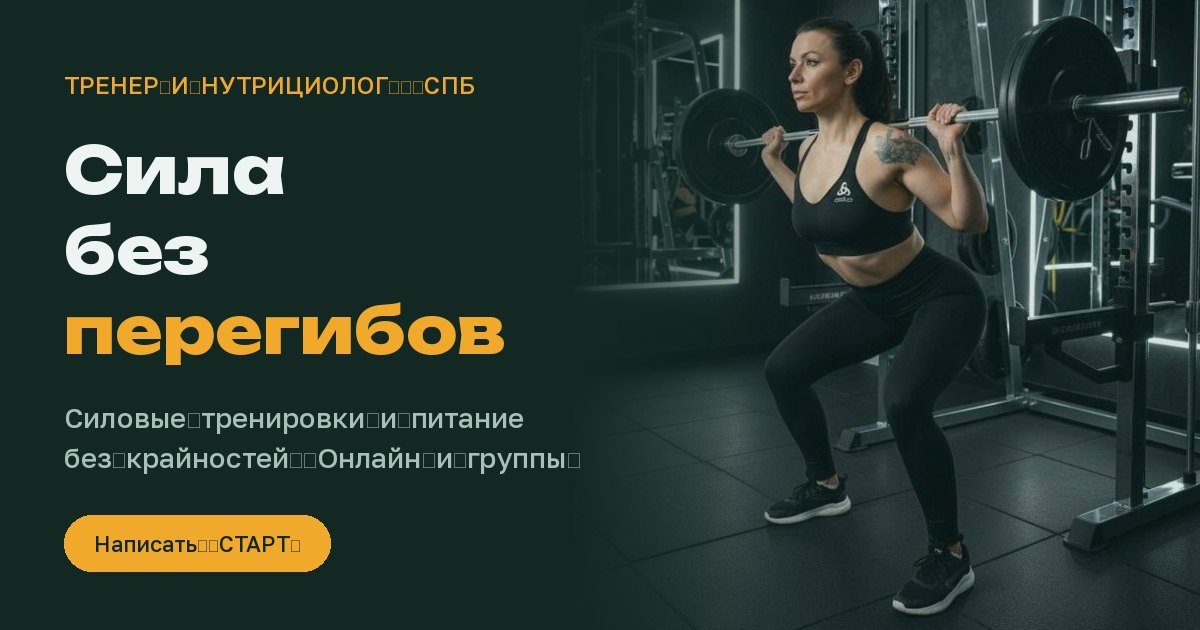
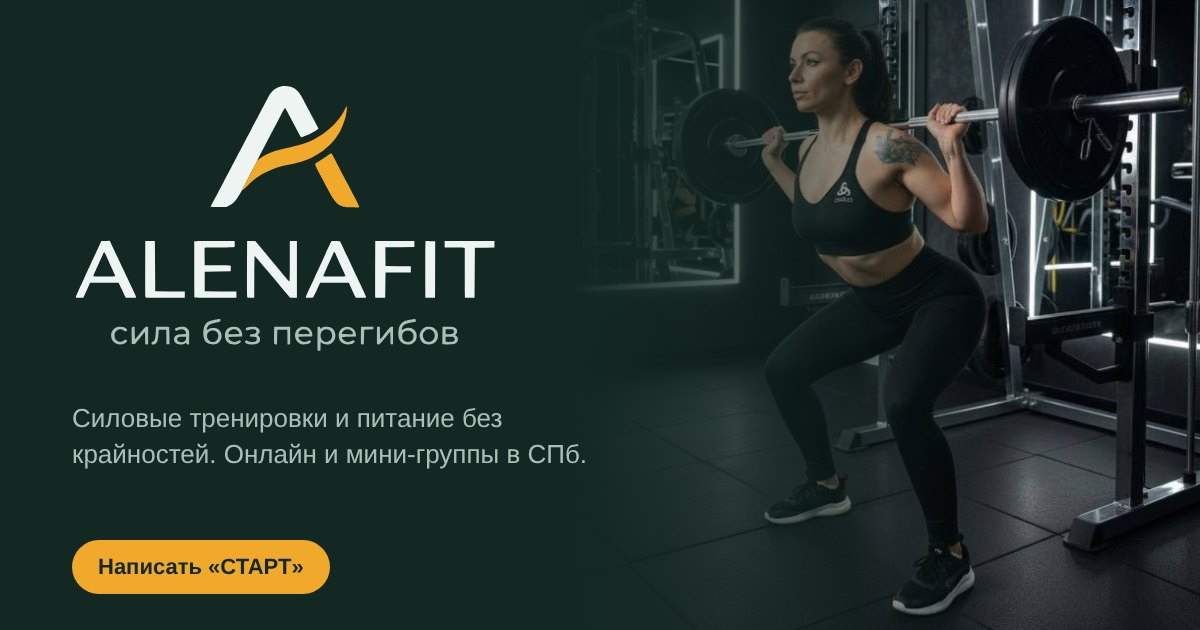
Логотип ALENAFIT: вектор, шапка, подвал, иконка, превью ссылки
Claude-Session: https://claude.ai/code/session_01HTtxCiXQ57RHCX37yzFsfp

diff --git a/index.html b/index.html
@@ -29,7 +29,7 @@
 
 <header class="bar g">
   <div class="w">
-    <a class="brand" href="./"><span class="mono" aria-hidden="true">АВ</span><span><b>Сила без перегибов</b><small>Алёна · тренер и нутрициолог</small></span></a>
+    <a class="brand" href="./" aria-label="ALENAFIT — на главную"><img class="brand-mark" src="img/brand/mark-light.svg" alt="" width="41" height="34"><span class="brand-text"><img class="brand-word" src="img/brand/wordmark-light.svg" alt="ALENAFIT" width="108" height="15"><small>сила без перегибов</small></span></a>
     <nav class="nav" aria-label="Разделы">
       <a href="./#plans">Цены</a><a href="nauka.html">Наука</a><a href="testy.html">Тесты</a><a href="servisy.html">Полезное</a><a href="novosti.html">Новости</a><a href="progress.html">Прогресс</a>
     </nav>
@@ -83,6 +83,7 @@
 
   <section class="manifest g" id="manifest">
     <div class="w">
+      <img class="m-watermark" src="img/brand/mark-light.svg" alt="" width="444" height="366" loading="lazy">
       <p class="m-big"><span>Не фитнес.</span> <span>Не спорт.</span> <em>Сила для жизни.</em></p>
       <p class="m-sub">Не ради медалей и не ради фото. Ради обычной жизни: поднять ребёнка или чемодан, донести пакеты, выдержать рабочую неделю — и не сорвать спину.</p>
     </div>
@@ -403,7 +404,7 @@
   </section>
 </main>
 
-<footer class="g"><div class="w"><span>Алёна · тренер и нутрициолог · Санкт-Петербург</span><span>Самозанятая. Не является медицинской услугой.</span><span class="foot-links"><a href="https://t.me/alena_gymmom" target="_blank" rel="noopener">Канал в Telegram</a> · <a href="https://t.me/Gym_mom1988" target="_blank" rel="noopener">Написать Алёне</a></span></div></footer>
+<footer class="g"><div class="w"><img class="foot-logo" src="img/brand/logo-light.svg" alt="ALENAFIT — сила без перегибов" width="150" height="96" loading="lazy"><span>Алёна · тренер и нутрициолог · Санкт-Петербург</span><span>Самозанятая. Не является медицинской услугой.</span><span class="foot-links"><a href="https://t.me/alena_gymmom" target="_blank" rel="noopener">Канал в Telegram</a> · <a href="https://t.me/Gym_mom1988" target="_blank" rel="noopener">Написать Алёне</a></span></div></footer>
 
 <div class="dock hide" id="dock">
   <div class="w">

diff --git a/kalorii.html b/kalorii.html
@@ -26,7 +26,7 @@
 <body>
 <header class="bar g">
   <div class="w">
-    <a class="brand" href="./"><span class="mono" aria-hidden="true">АВ</span><span><b>Сила без перегибов</b><small>Алёна · тренер и нутрициолог</small></span></a>
+    <a class="brand" href="./" aria-label="ALENAFIT — на главную"><img class="brand-mark" src="img/brand/mark-light.svg" alt="" width="41" height="34"><span class="brand-text"><img class="brand-word" src="img/brand/wordmark-light.svg" alt="ALENAFIT" width="108" height="15"><small>сила без перегибов</small></span></a>
     <nav class="nav" aria-label="Разделы">
       <a href="./#plans">Цены</a><a href="nauka.html">Наука</a><a href="testy.html">Тесты</a><a href="servisy.html">Полезное</a><a href="novosti.html">Новости</a><a href="progress.html">Прогресс</a>
     </nav>
@@ -153,7 +153,7 @@
     </div>
   </section>
 </main>
-<footer class="g"><div class="w"><span>Алёна · тренер и нутрициолог · Санкт-Петербург</span><span>Самозанятая. Не является медицинской услугой.</span><span class="foot-links"><a href="https://t.me/alena_gymmom" target="_blank" rel="noopener">Канал в Telegram</a> · <a href="https://t.me/Gym_mom1988" target="_blank" rel="noopener">Написать Алёне</a></span></div></footer>
+<footer class="g"><div class="w"><img class="foot-logo" src="img/brand/logo-light.svg" alt="ALENAFIT — сила без перегибов" width="150" height="96" loading="lazy"><span>Алёна · тренер и нутрициолог · Санкт-Петербург</span><span>Самозанятая. Не является медицинской услугой.</span><span class="foot-links"><a href="https://t.me/alena_gymmom" target="_blank" rel="noopener">Канал в Telegram</a> · <a href="https://t.me/Gym_mom1988" target="_blank" rel="noopener">Написать Алёне</a></span></div></footer>
 <script src="js/food-db.js" defer></script>
 <script src="js/food.js" defer></script>
 <script src="js/nav.js" defer></script>

diff --git a/progress.html b/progress.html
@@ -26,7 +26,7 @@
 <body>
 <header class="bar g">
   <div class="w">
-    <a class="brand" href="./"><span class="mono" aria-hidden="true">АВ</span><span><b>Сила без перегибов</b><small>Алёна · тренер и нутрициолог</small></span></a>
+    <a class="brand" href="./" aria-label="ALENAFIT — на главную"><img class="brand-mark" src="img/brand/mark-light.svg" alt="" width="41" height="34"><span class="brand-text"><img class="brand-word" src="img/brand/wordmark-light.svg" alt="ALENAFIT" width="108" height="15"><small>сила без перегибов</small></span></a>
     <nav class="nav" aria-label="Разделы">
       <a href="./#plans">Цены</a><a href="nauka.html">Наука</a><a href="testy.html">Тесты</a><a href="servisy.html">Полезное</a><a href="novosti.html">Новости</a><a href="progress.html">Прогресс</a>
     </nav>
@@ -181,7 +181,7 @@
     </div>
   </section>
 </main>
-<footer class="g"><div class="w"><span>Алёна · тренер и нутрициолог · Санкт-Петербург</span><span>Самозанятая. Не является медицинской услугой.</span><span class="foot-links"><a href="https://t.me/alena_gymmom" target="_blank" rel="noopener">Канал в Telegram</a> · <a href="https://t.me/Gym_mom1988" target="_blank" rel="noopener">Написать Алёне</a></span></div></footer>
+<footer class="g"><div class="w"><img class="foot-logo" src="img/brand/logo-light.svg" alt="ALENAFIT — сила без перегибов" width="150" height="96" loading="lazy"><span>Алёна · тренер и нутрициолог · Санкт-Петербург</span><span>Самозанятая. Не является медицинской услугой.</span><span class="foot-links"><a href="https://t.me/alena_gymmom" target="_blank" rel="noopener">Канал в Telegram</a> · <a href="https://t.me/Gym_mom1988" target="_blank" rel="noopener">Написать Алёне</a></span></div></footer>
 <script src="js/progress.js" defer></script>
 <script src="js/nav.js" defer></script>
 </body>

diff --git a/novosti.html b/novosti.html
@@ -26,7 +26,7 @@
 <body>
 <header class="bar g">
   <div class="w">
-    <a class="brand" href="./"><span class="mono" aria-hidden="true">АВ</span><span><b>Сила без перегибов</b><small>Алёна · тренер и нутрициолог</small></span></a>
+    <a class="brand" href="./" aria-label="ALENAFIT — на главную"><img class="brand-mark" src="img/brand/mark-light.svg" alt="" width="41" height="34"><span class="brand-text"><img class="brand-word" src="img/brand/wordmark-light.svg" alt="ALENAFIT" width="108" height="15"><small>сила без перегибов</small></span></a>
     <nav class="nav" aria-label="Разделы">
       <a href="./#plans">Цены</a><a href="nauka.html">Наука</a><a href="testy.html">Тесты</a><a href="servisy.html">Полезное</a><a href="novosti.html">Новости</a><a href="progress.html">Прогресс</a>
     </nav>
@@ -89,7 +89,7 @@
     </div>
   </section>
 </main>
-<footer class="g"><div class="w"><span>Алёна · тренер и нутрициолог · Санкт-Петербург</span><span>Самозанятая. Не является медицинской услугой.</span><span class="foot-links"><a href="https://t.me/alena_gymmom" target="_blank" rel="noopener">Канал в Telegram</a> · <a href="https://t.me/Gym_mom1988" target="_blank" rel="noopener">Написать Алёне</a></span></div></footer>
+<footer class="g"><div class="w"><img class="foot-logo" src="img/brand/logo-light.svg" alt="ALENAFIT — сила без перегибов" width="150" height="96" loading="lazy"><span>Алёна · тренер и нутрициолог · Санкт-Петербург</span><span>Самозанятая. Не является медицинской услугой.</span><span class="foot-links"><a href="https://t.me/alena_gymmom" target="_blank" rel="noopener">Канал в Telegram</a> · <a href="https://t.me/Gym_mom1988" target="_blank" rel="noopener">Написать Алёне</a></span></div></footer>
 <script src="js/feeds.js" defer></script>
 <script src="js/nav.js" defer></script>
 </body>

diff --git a/servisy.html b/servisy.html
@@ -26,7 +26,7 @@
 <body>
 <header class="bar g">
   <div class="w">
-    <a class="brand" href="./"><span class="mono" aria-hidden="true">АВ</span><span><b>Сила без перегибов</b><small>Алёна · тренер и нутрициолог</small></span></a>
+    <a class="brand" href="./" aria-label="ALENAFIT — на главную"><img class="brand-mark" src="img/brand/mark-light.svg" alt="" width="41" height="34"><span class="brand-text"><img class="brand-word" src="img/brand/wordmark-light.svg" alt="ALENAFIT" width="108" height="15"><small>сила без перегибов</small></span></a>
     <nav class="nav" aria-label="Разделы">
       <a href="./#plans">Цены</a><a href="nauka.html">Наука</a><a href="testy.html">Тесты</a><a href="servisy.html">Полезное</a><a href="novosti.html">Новости</a><a href="progress.html">Прогресс</a>
     </nav>
@@ -204,7 +204,7 @@
     </div>
   </section>
 </main>
-<footer class="g"><div class="w"><span>Алёна · тренер и нутрициолог · Санкт-Петербург</span><span>Самозанятая. Не является медицинской услугой.</span><span class="foot-links"><a href="https://t.me/alena_gymmom" target="_blank" rel="noopener">Канал в Telegram</a> · <a href="https://t.me/Gym_mom1988" target="_blank" rel="noopener">Написать Алёне</a></span></div></footer>
+<footer class="g"><div class="w"><img class="foot-logo" src="img/brand/logo-light.svg" alt="ALENAFIT — сила без перегибов" width="150" height="96" loading="lazy"><span>Алёна · тренер и нутрициолог · Санкт-Петербург</span><span>Самозанятая. Не является медицинской услугой.</span><span class="foot-links"><a href="https://t.me/alena_gymmom" target="_blank" rel="noopener">Канал в Telegram</a> · <a href="https://t.me/Gym_mom1988" target="_blank" rel="noopener">Написать Алёне</a></span></div></footer>
 <script src="js/nav.js" defer></script>
 <script>
 (function(){

diff --git a/testy.html b/testy.html
@@ -26,7 +26,7 @@
 <body>
 <header class="bar g">
   <div class="w">
-    <a class="brand" href="./"><span class="mono" aria-hidden="true">АВ</span><span><b>Сила без перегибов</b><small>Алёна · тренер и нутрициолог</small></span></a>
+    <a class="brand" href="./" aria-label="ALENAFIT — на главную"><img class="brand-mark" src="img/brand/mark-light.svg" alt="" width="41" height="34"><span class="brand-text"><img class="brand-word" src="img/brand/wordmark-light.svg" alt="ALENAFIT" width="108" height="15"><small>сила без перегибов</small></span></a>
     <nav class="nav" aria-label="Разделы">
       <a href="./#plans">Цены</a><a href="nauka.html">Наука</a><a href="testy.html">Тесты</a><a href="servisy.html">Полезное</a><a href="novosti.html">Новости</a><a href="progress.html">Прогресс</a>
     </nav>
@@ -200,7 +200,7 @@
     </div>
   </section>
 </main>
-<footer class="g"><div class="w"><span>Алёна · тренер и нутрициолог · Санкт-Петербург</span><span>Самозанятая. Не является медицинской услугой.</span><span class="foot-links"><a href="https://t.me/alena_gymmom" target="_blank" rel="noopener">Канал в Telegram</a> · <a href="https://t.me/Gym_mom1988" target="_blank" rel="noopener">Написать Алёне</a></span></div></footer>
+<footer class="g"><div class="w"><img class="foot-logo" src="img/brand/logo-light.svg" alt="ALENAFIT — сила без перегибов" width="150" height="96" loading="lazy"><span>Алёна · тренер и нутрициолог · Санкт-Петербург</span><span>Самозанятая. Не является медицинской услугой.</span><span class="foot-links"><a href="https://t.me/alena_gymmom" target="_blank" rel="noopener">Канал в Telegram</a> · <a href="https://t.me/Gym_mom1988" target="_blank" rel="noopener">Написать Алёне</a></span></div></footer>
 <script>
 (function(){
   /* 1. сесть-встать */

diff --git a/nauka.html b/nauka.html
@@ -26,7 +26,7 @@
 <body>
 <header class="bar g">
   <div class="w">
-    <a class="brand" href="./"><span class="mono" aria-hidden="true">АВ</span><span><b>Сила без перегибов</b><small>Алёна · тренер и нутрициолог</small></span></a>
+    <a class="brand" href="./" aria-label="ALENAFIT — на главную"><img class="brand-mark" src="img/brand/mark-light.svg" alt="" width="41" height="34"><span class="brand-text"><img class="brand-word" src="img/brand/wordmark-light.svg" alt="ALENAFIT" width="108" height="15"><small>сила без перегибов</small></span></a>
     <nav class="nav" aria-label="Разделы">
       <a href="./#plans">Цены</a><a href="nauka.html">Наука</a><a href="testy.html">Тесты</a><a href="servisy.html">Полезное</a><a href="novosti.html">Новости</a><a href="progress.html">Прогресс</a>
     </nav>
@@ -209,7 +209,7 @@
     </div>
   </section>
 </main>
-<footer class="g"><div class="w"><span>Алёна · тренер и нутрициолог · Санкт-Петербург</span><span>Самозанятая. Не является медицинской услугой.</span><span class="foot-links"><a href="https://t.me/alena_gymmom" target="_blank" rel="noopener">Канал в Telegram</a> · <a href="https://t.me/Gym_mom1988" target="_blank" rel="noopener">Написать Алёне</a></span></div></footer>
+<footer class="g"><div class="w"><img class="foot-logo" src="img/brand/logo-light.svg" alt="ALENAFIT — сила без перегибов" width="150" height="96" loading="lazy"><span>Алёна · тренер и нутрициолог · Санкт-Петербург</span><span>Самозанятая. Не является медицинской услугой.</span><span class="foot-links"><a href="https://t.me/alena_gymmom" target="_blank" rel="noopener">Канал в Telegram</a> · <a href="https://t.me/Gym_mom1988" target="_blank" rel="noopener">Написать Алёне</a></span></div></footer>
 <script src="js/nav.js" defer></script>
 </body>
 </html>

diff --git a/css/site.css b/css/site.css
@@ -589,3 +589,18 @@ details.body-block[open]>summary h2::after{content:" −"}
 .meal li span:nth-child(2){color:var(--muted);white-space:nowrap}
 .meal .del{border:0;background:var(--surface-2);color:var(--ink);width:36px;height:36px;border-radius:50%;font-size:18px;cursor:pointer}
 #den .nums{margin-top:14px}
+
+/* логотип */
+.brand{gap:10px}
+.brand-mark{height:34px;width:auto;flex:none;display:block}
+.brand-text{display:grid;gap:3px;min-width:0}
+.brand-word{display:block;height:14px;width:auto}
+.brand-text small{display:block;font-size:11.5px;color:var(--muted);letter-spacing:.02em}
+.foot-logo{display:block;width:150px;height:auto;margin-bottom:14px}
+.manifest .w{position:relative}
+.m-watermark{position:absolute;right:-30px;top:-10px;width:min(52vw,380px);height:auto;opacity:.08;pointer-events:none}
+@media (min-width:1024px){.brand-mark{height:38px}.brand-word{height:16px}.m-watermark{right:0;top:-40px;opacity:.1}}
+
+.manifest{overflow:hidden}
+
+@media (max-width:480px){.brand-text small{display:none}}
